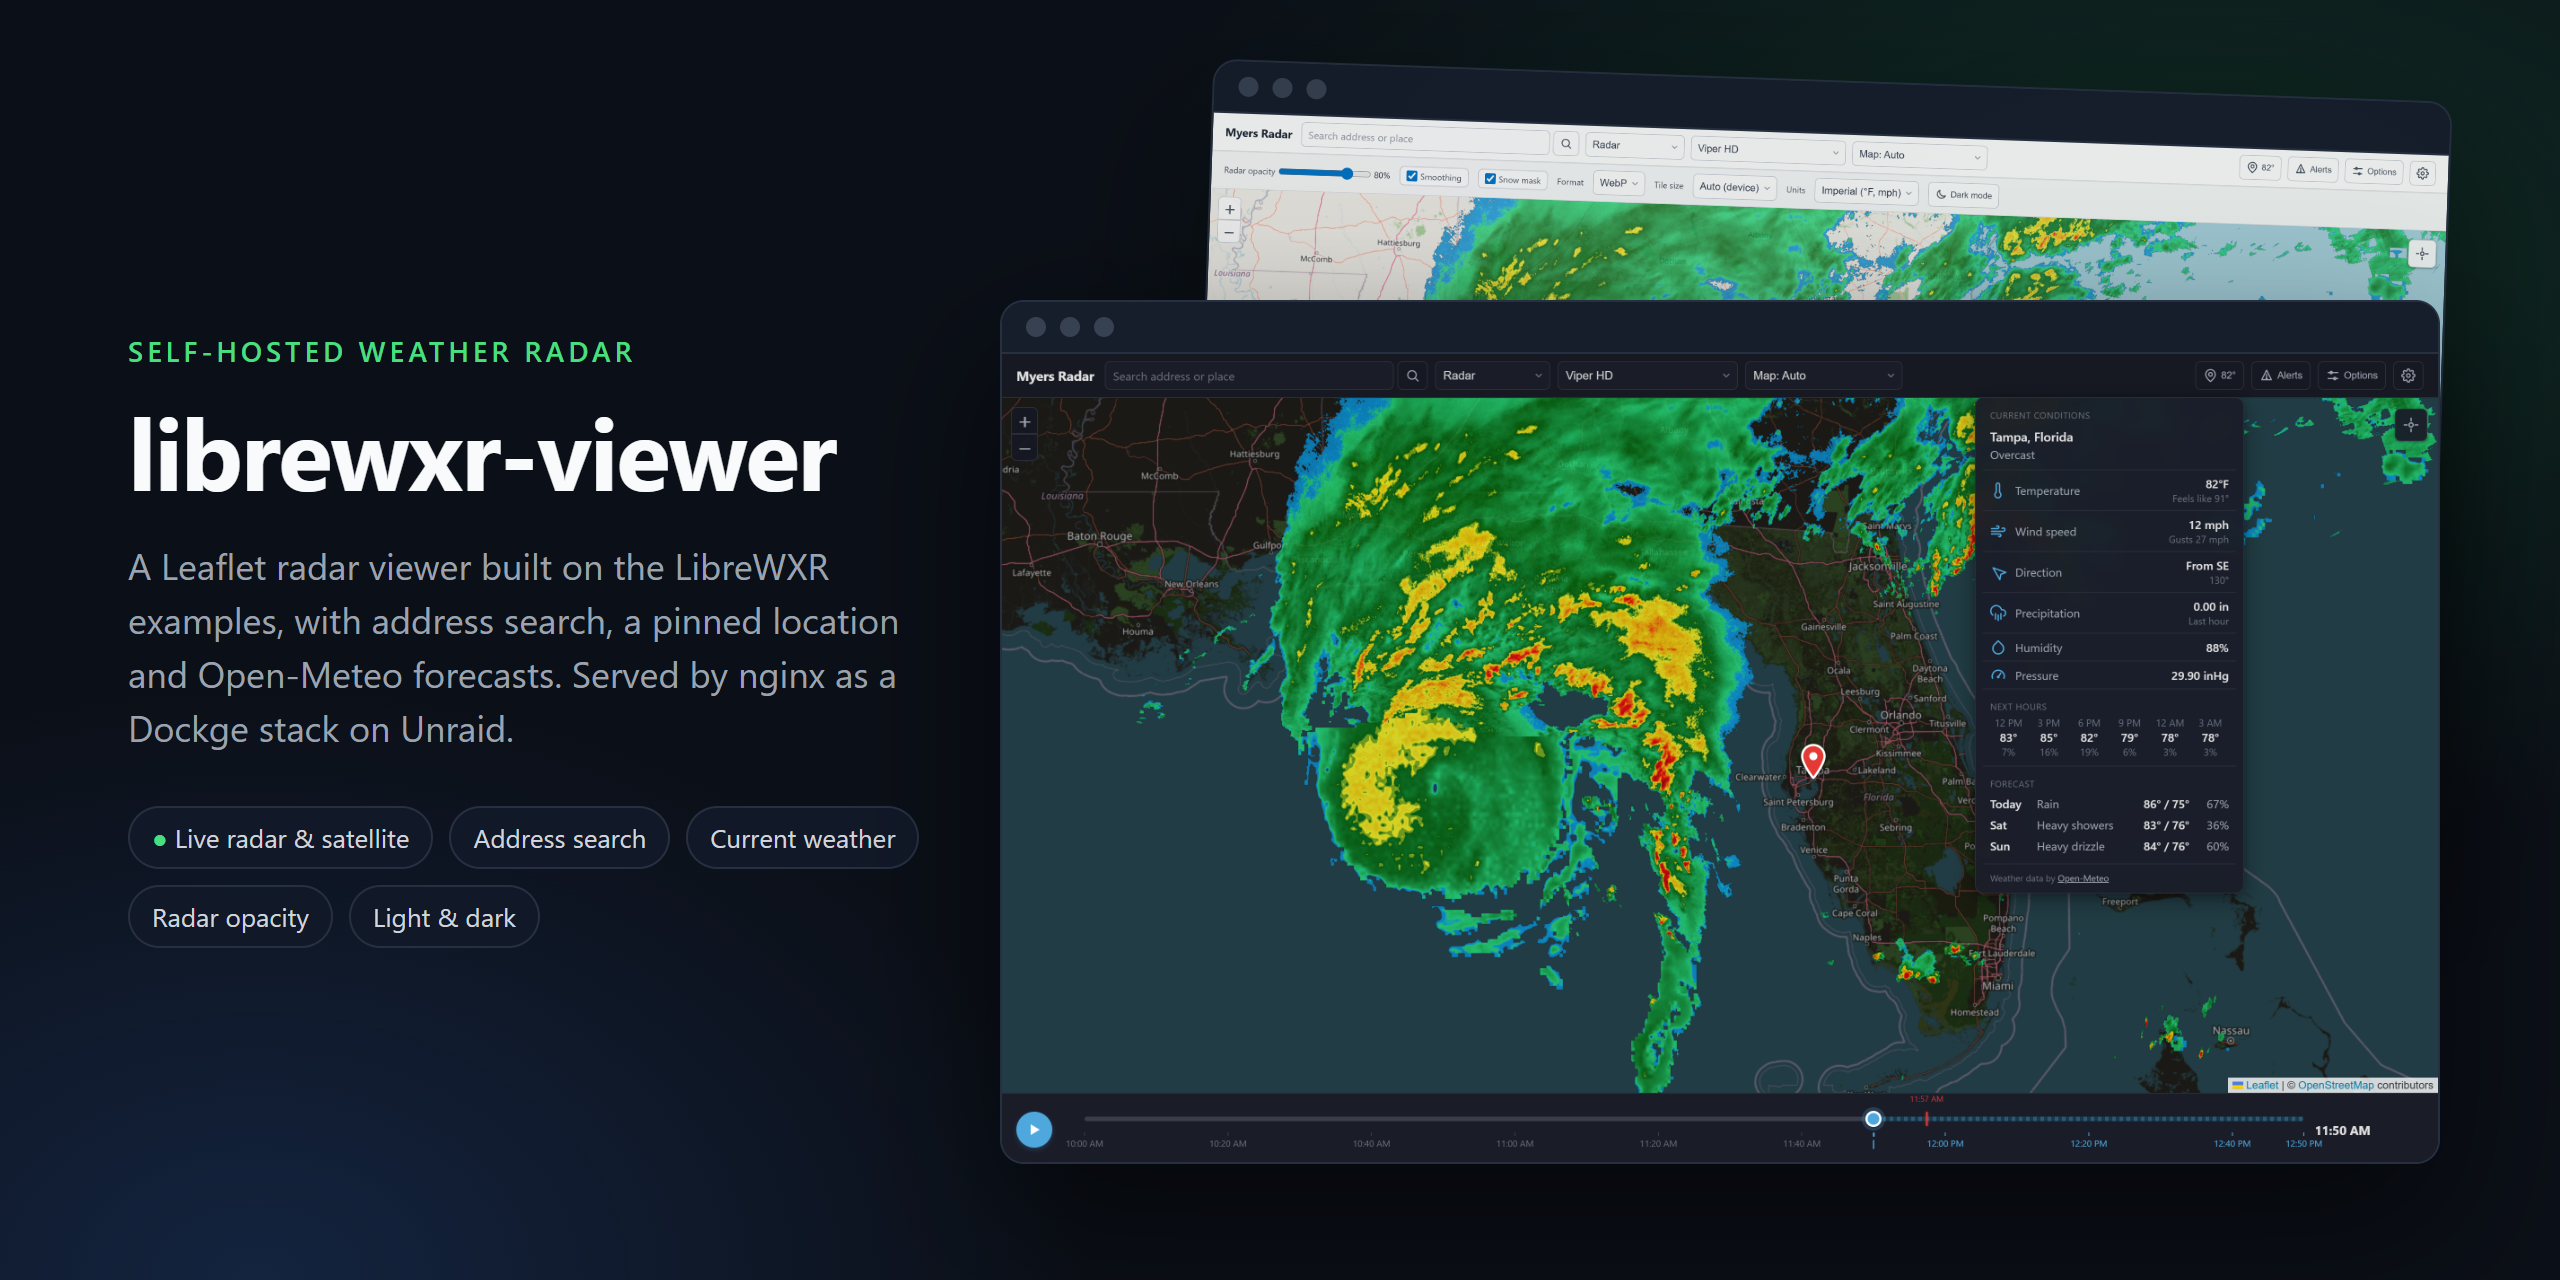
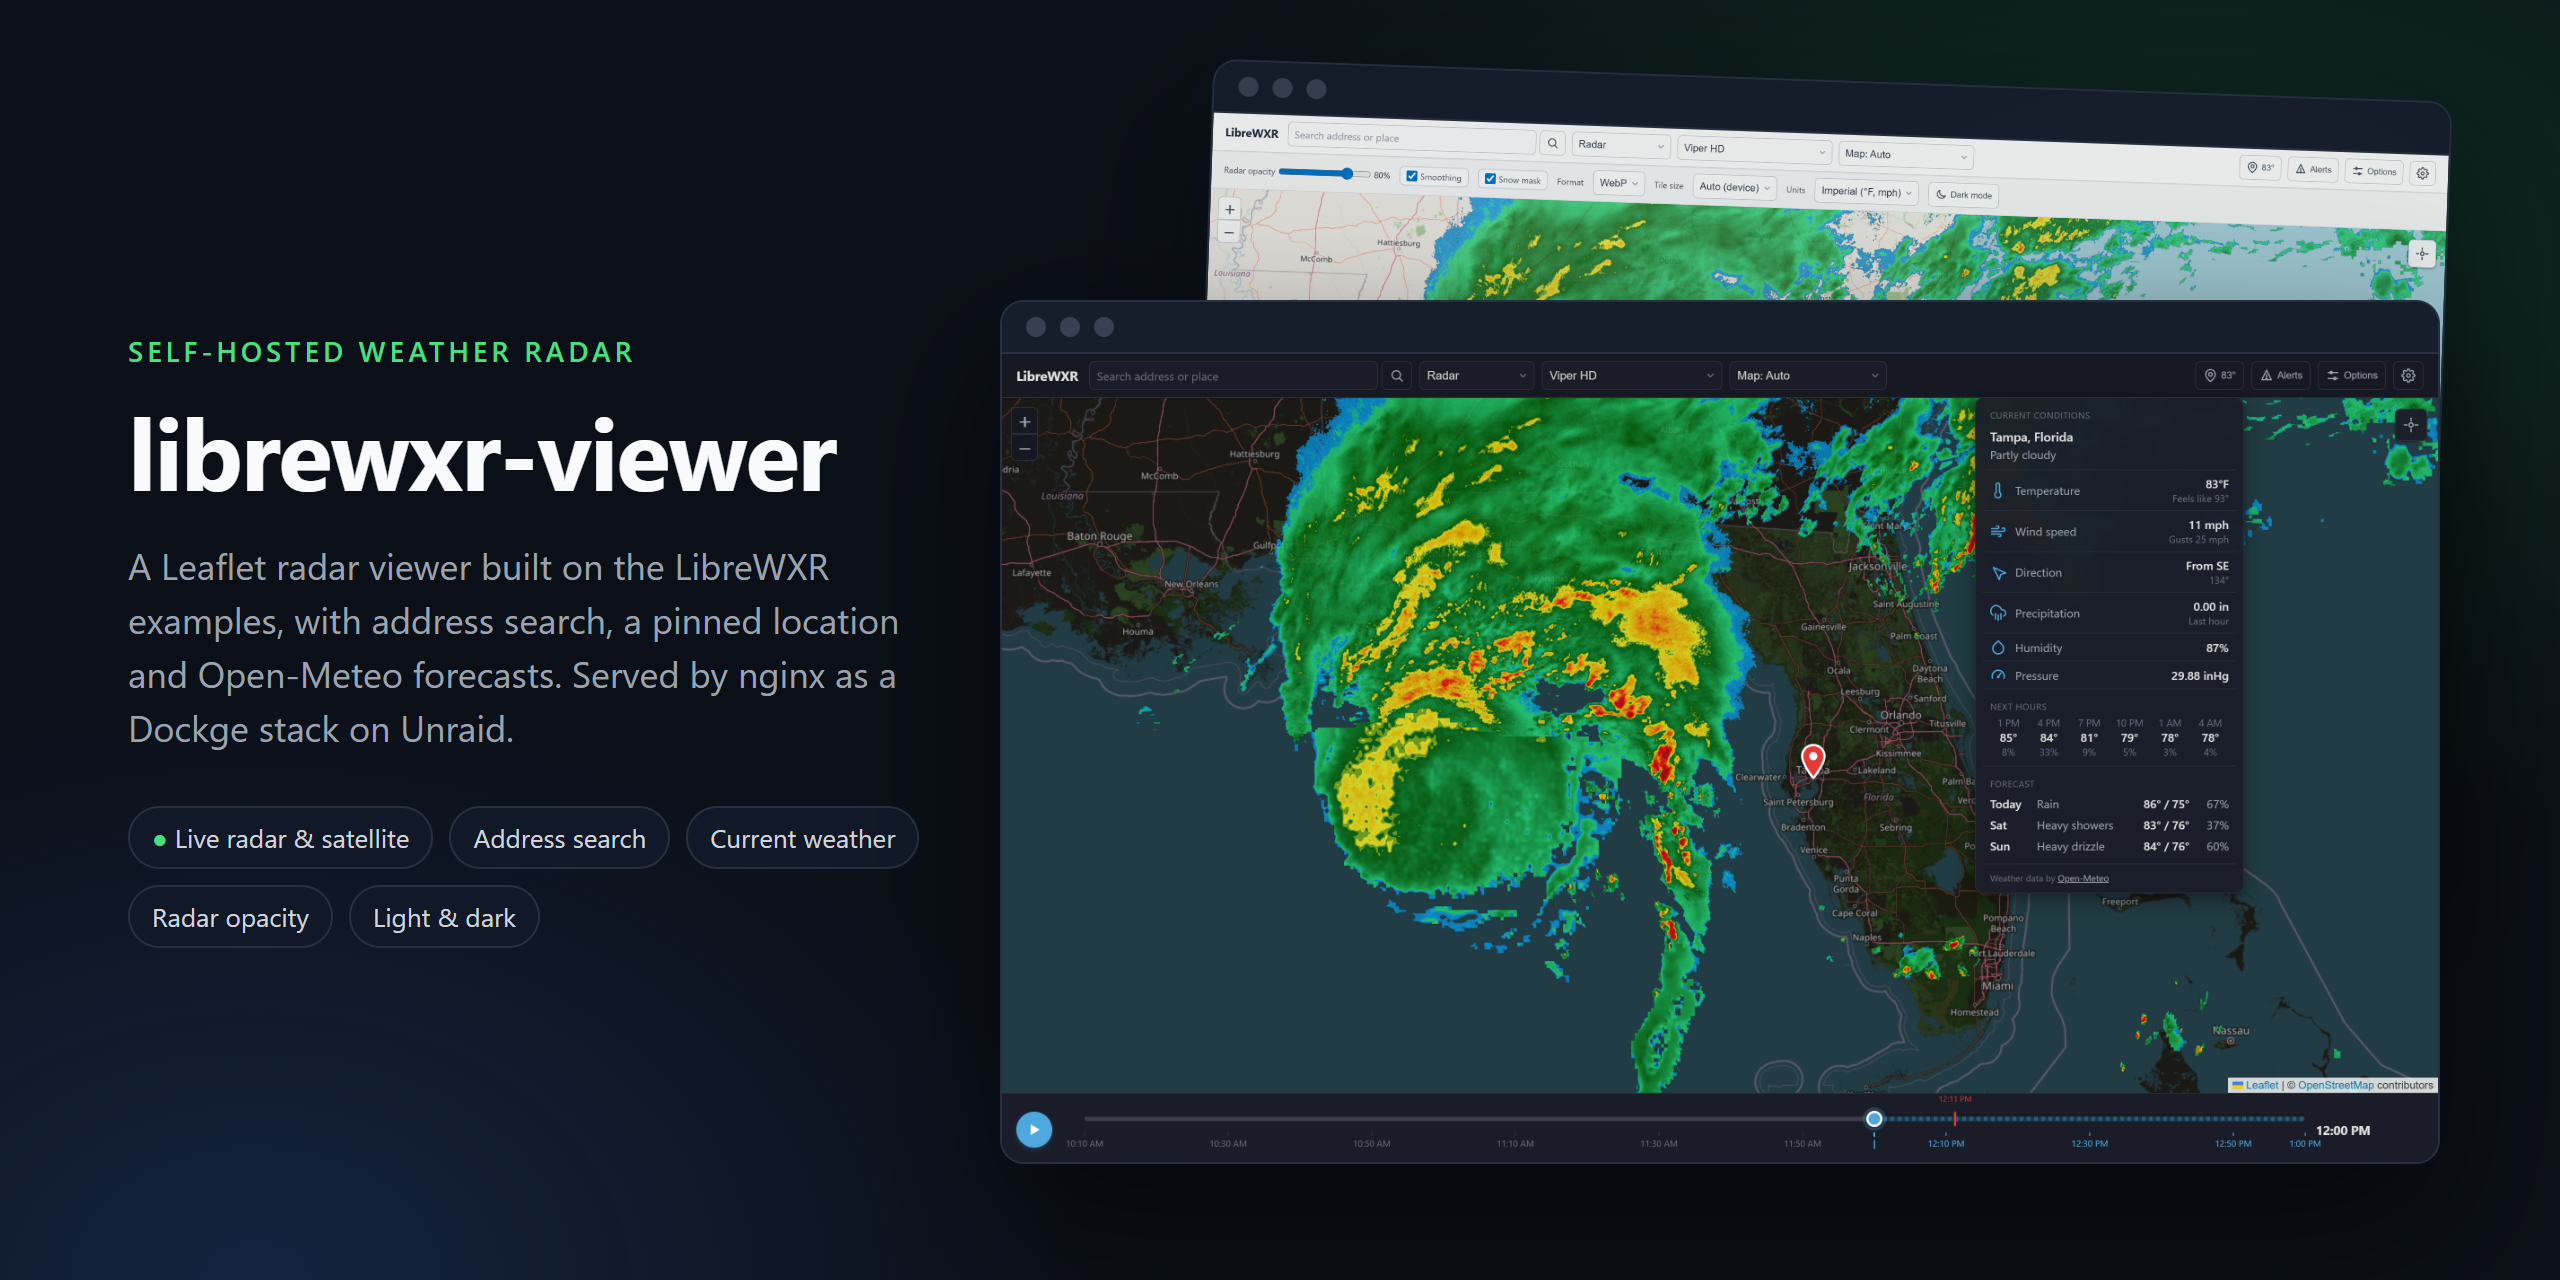
Restore the original LibreWXR page title
Use the upstream example's "LibreWXR" toolbar title instead of a
personal name, recapture the README images to match, and note which
upstream commit the examples were copied from.

diff --git a/html/index.html b/html/index.html
@@ -3,7 +3,7 @@
 <head>
     <meta charset="utf-8">
     <meta name="viewport" content="width=device-width, initial-scale=1.0">
-    <title>Myers Radar</title>
+    <title>LibreWXR</title>
     <link rel="stylesheet" href="https://unpkg.com/leaflet/dist/leaflet.css">
     <link rel="stylesheet" href="css/styles.css">
     <script src="js/settings.js"></script>
@@ -11,7 +11,7 @@
 <body data-theme="dark">
 
 <div class="toolbar">
-    <span class="toolbar-title">Myers Radar</span>
+    <span class="toolbar-title">LibreWXR</span>
     <form class="lv-search" id="lv-search" role="search">
         <input type="search" id="lv-search-input" placeholder="Search address or place" aria-label="Search address or place" autocomplete="off" enterkeyhint="search">
         <button type="submit" class="icon-btn" id="lv-search-btn" aria-label="Search" title="Search">

diff --git a/README.md b/README.md
@@ -37,7 +37,7 @@ The viewer started from the Leaflet example in the [`examples/`](https://github.
 | `html/js/app.js` | The Leaflet adapter from `examples/src/leaflet.html.js`, moved into its own file and extended |
 | `html/index.html`, `html/css/styles.css` | The Leaflet example's markup and styles, split out of the single-file build and extended |
 
-The copy was taken in September 2026, so newer upstream example features, such as the lightning overlay, aren't in it yet.
+The copy was taken in September 2026 and most closely matches upstream commit [`6347e19`](https://github.com/JoshuaKimsey/LibreWXR/commit/6347e19), so newer example features, such as the lightning overlay, aren't in it yet.
 
 The LibreWXR server is licensed AGPL-3.0, but its `examples/` folder is licensed separately under MIT ([`LICENSE-examples`](LICENSE-examples)). This repo contains only code derived from the examples, no server code, so it uses the same MIT license. The original copyright notice is kept in [`LICENSE-examples`](LICENSE-examples).
 
